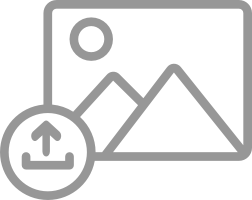
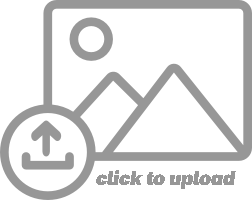
change images inputs

Changed region(s): [[0.5833, 0.84, 0.9444, 0.96], [0.3611, 0.84, 0.5556, 0.93]]

diff --git a/src/Admin/Components/AddProduct/AddProduct.jsx b/src/Admin/Components/AddProduct/AddProduct.jsx
@@ -1,12 +1,12 @@
 import styles from './AddProduct.module.scss'
 
 import { ToastContainer } from 'react-toastify';
-
+import addImg from '../../../assets/addimg.png'
 import { AddProductHook } from '../../HookAdmin/Product/AddProductHook'
 import { GetCategoryHook } from '../../HookAdmin/Category/GetCategoryHook';
 export default function AddProduct() {
     const [Categories] = GetCategoryHook()
-    const [onSubmit, handleChange, formInputData, handleChangeImageCover, displayImageCover, handleChangeImages, displayImages, onRemoveImageFromArray] = AddProductHook()
+    const [onSubmit, handleChange, formInputData, handleChangeImageCover, displayImageCover, handleChangeImages, displayImages, onRemoveImageFromArray, handleChangeListImages, listimages] = AddProductHook()
 
     return (
         <div>
@@ -45,7 +45,7 @@ export default function AddProduct() {
                             <div className={styles.formGroup}>
                                 <label className={styles.category}>
                                     <p><span>*</span>Product Category</p>
-                                    <select onChange={handleChange} value={formInputData.category} name="category">
+                                    <select required onChange={handleChange} value={formInputData.category} name="category">
                                         {Categories.length >= 1 ? Categories?.map((cat, index) => <option key={index} value={cat._id}>{cat.name}</option>) : <option disabled>No Category , add new one</option>}
 
 
@@ -84,7 +84,15 @@ export default function AddProduct() {
                         <div className={styles.cardBody}>
 
                             <div className={styles.imageCard}>
-                                <img src={displayImageCover}></img>
+
+                                {displayImageCover === null ? null :
+
+                                    <div className={styles.displayMainImage}>
+                                        <i onClick={() => onRemoveImageFromArray()} className={` fa-solid fa-xmark`} ></i>
+                                        <img src={displayImageCover}></img>
+                                    </div>}
+
+
                                 <label htmlFor='imageCover'
 
                                 >
@@ -111,28 +119,31 @@ export default function AddProduct() {
                         <div className={styles.cardBody}>
 
 
-                            <div className={styles.listImages}>
-                                {displayImages?.map((img, index) => {
-                                    return (
-                                        <div className={styles.ItemOfImage} key={index}>
-                                            <img src={URL.createObjectURL(img)}></img>
-                                            <i onClick={() => onRemoveImageFromArray()} className={`${styles.cart}  fa-solid fa-xmark`} ></i>
-                                        </div>
-                                    )
-                                })}
-
-                            </div>
 
 
-                            <div className={styles.imageCard}>
 
-                                <label htmlFor='images'
+                            <div className={styles.imagesCard}>
 
-                                >
-                                    Click To Upload
-                                    <input multiple onChange={handleChangeImages} name="images" id='images' type='file' />
+                                <label htmlFor='images'>
+                                    <img src={listimages[0].image}></img>
+                                    Click to Upload
+                                    <input onChange={(e) => handleChangeListImages(0, e)} name="images" id='images' type='file' />
                                 </label>
-
+                                <label htmlFor='images'>
+                                    <img src={listimages[1].image}></img>
+                                    Click to Upload
+                                    <input onChange={(e) => handleChangeListImages(1, e)} name="images" id='images' type='file' />
+                                </label>
+                                <label htmlFor='images'>
+                                    <img src={listimages[2].image}></img>
+                                    Click to Upload
+                                    <input onChange={(e) => handleChangeListImages(2, e)} name="images" id='images' type='file' />
+                                </label>
+                                <label htmlFor='images'>
+                                    <img src={listimages[3].image}></img>
+                                    Click to Upload
+                                    <input onChange={(e) => handleChangeListImages(3, e)} name="images" id='images' type='file' />
+                                </label>
                             </div>
 
                         </div>

diff --git a/src/Admin/Components/AddProduct/AddProduct.module.scss b/src/Admin/Components/AddProduct/AddProduct.module.scss
@@ -1,3 +1,5 @@
+@import "../../../variables.scss";
+
 .title {
   width: 100%;
   // margin-left: 20px;
@@ -34,29 +36,11 @@
   margin-left: -15px;
 
   .container {
-    flex: 0 0 50%;
-    max-width: 50%;
-    position: relative;
-    width: 100%;
-    min-height: 1px;
-    padding-right: 15px;
-    padding-left: 15px;
+    @include container;
   }
 
   .card {
-    margin-bottom: 30px;
-    border: 0;
-    letter-spacing: 0.5px;
-    border-radius: 8px;
-    box-shadow: 1px 5px 24px 0 rgba(68, 102, 242, 0.05);
-    position: relative;
-    display: flex;
-    flex-direction: column;
-    min-width: 0;
-    word-wrap: break-word;
-    background-color: #fff;
-    background-clip: border-box;
-    transition: all 0.3s ease;
+    @include card;
 
     .formControl {
       display: block;
@@ -112,7 +96,43 @@
       }
     }
   }
-
+  .displayMainImage {
+    i {
+      position: absolute;
+      cursor: pointer;
+    }
+    img {
+      position: relative;
+    }
+  }
+  .imagesCard {
+    display: flex;
+    align-items: center;
+    justify-content: center;
+    text-align: center;
+    flex-direction: row;
+    column-gap: 10px;
+    input {
+      display: none;
+    }
+    img {
+      width: 100px;
+      max-height: 400px;
+      padding: 20px;
+    }
+    label {
+      border: 3px red dotted;
+      font-size: 12px;
+      // margin-top: 20px;
+      background-color: #f8fafb;
+      padding: 10px;
+      border-radius: 10px;
+      display: flex;
+      height: 100%;
+      justify-content: center;
+      flex-direction: column;
+    }
+  }
   .imageCard {
     display: flex;
     align-items: center;
@@ -136,6 +156,7 @@
       padding: 10px;
       border-radius: 10px;
       display: flex;
+
       justify-content: center;
       flex-direction: column;
     }

diff --git a/src/Admin/HookAdmin/Product/AddProductHook.jsx b/src/Admin/HookAdmin/Product/AddProductHook.jsx
@@ -2,7 +2,7 @@ import { useEffect, useState } from "react"
 import notify from "../../../Hooks/useNotifaction"
 import { useDispatch, useSelector } from "react-redux"
 import { AddProduct } from "../../../Redux/productsSlice/ActionsProducts"
-
+import addImg from '../../../assets/addimg.png'
 
 
 export const AddProductHook = () => {
@@ -31,6 +31,12 @@ export const AddProductHook = () => {
 
 
 
+    useEffect(() => {
+
+        if (displayImages?.length >= 3) {
+            console.log('max 3')
+        }
+    }, [])
 
 
 
@@ -56,7 +62,7 @@ export const AddProductHook = () => {
 
 
 
-    const onRemoveImageFromArray = (e) => {
+    const onRemoveImageFromArray = () => {
         setImageCover(null)
         setDisplayImageCover(null)
     }
@@ -206,5 +212,5 @@ export const AddProductHook = () => {
     }, [loading])
 
 
-    return [onSubmit, handleChange, formInputData, handleChangeImageCover, displayImageCover, handleChangeImages, displayImages,onRemoveImageFromArray]
+    return [onSubmit, handleChange, formInputData, handleChangeImageCover, displayImageCover, handleChangeImages, displayImages, onRemoveImageFromArray, handleChangeListImages, listimages]
 } 

diff --git a/src/variables.scss b/src/variables.scss
@@ -13,3 +13,30 @@ $paddingPage: 100px calc(100% - 80%);
   padding: $padding;
   border-radius: 5px;
 }
+@mixin card() {
+  margin-bottom: 30px;
+  border: 0;
+  letter-spacing: 0.5px;
+  border-radius: 8px;
+  box-shadow: 1px 5px 24px 0 rgba(68, 102, 242, 0.05);
+  position: relative;
+  display: flex;
+  flex-direction: column;
+  min-width: 0;
+  word-wrap: break-word;
+  background-color: #fff;
+  background-clip: border-box;
+  transition: all 0.3s ease;
+}
+
+
+@mixin container() {
+
+  flex: 0 0 50%;
+  max-width: 50%;
+  position: relative;
+  width: 100%;
+  min-height: 1px;
+  padding-right: 15px;
+  padding-left: 15px;
+}
